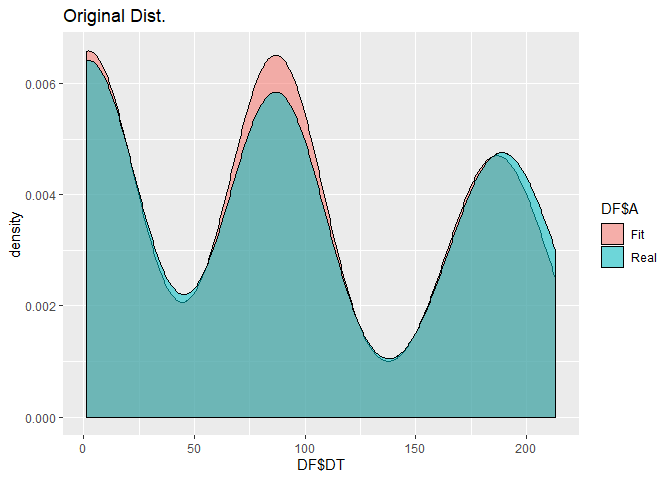
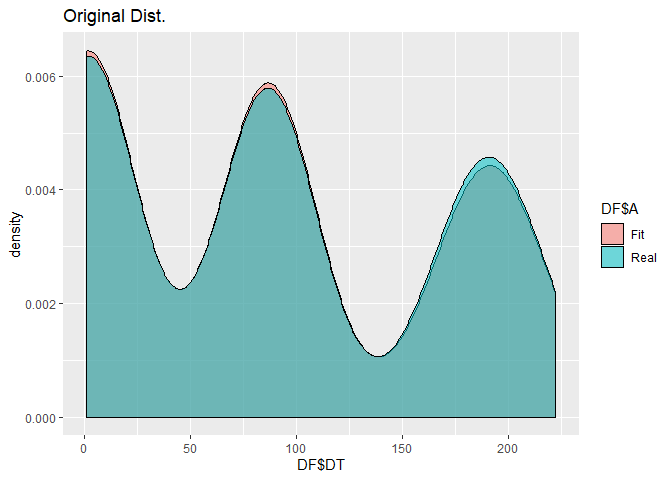
More explicit example

diff --git a/README.md b/README.md
@@ -17,7 +17,7 @@ install.packages("FitUltD")
 Example
 -------
 
-This is a basic example which shows you how to fit a multimodal random variable:
+This is a basic example which shows you how to fit a multimodal random variable choosing your own distributions:
 
 ``` r
 library(FitUltD)
@@ -25,39 +25,31 @@ library(FitUltD)
 #> Package 'mclust' version 5.4.5
 #> Type 'citation("mclust")' for citing this R package in publications.
 #Random Variable
+set.seed(3110)
+
 RV <- c(rnorm(73,189,12), rweibull(82,401,87), rgamma(90,40,19))
-set.seed(311093)
+
+Nombres <- c("norm","weibull","gamma","exp","cauchy")
+
 FIT1 <- FDistUlt(RV, plot = TRUE, subplot = TRUE)
-#> Error in computing default starting values.
-#> Error in computing default starting values.
-#> Error in computing default starting values.
-#> Error in computing default starting values.
-#> Error in computing default starting values.
-#> Error in computing default starting values.
-#> Error in computing default starting values.
-#> Error in computing default starting values.
-#> Error in computing default starting values.
-#> Error in computing default starting values.
-#> Error in computing default starting values.
-#> Error in computing default starting values.
 ```
 
 One of the available options is to show the distribution functions that passed the Anderson Darling and Kolmogorov Smirnov tests, as well as their p-value and the proportion of the total distribution.
 
 ``` r
 FIT1[[3]]
-#>                  Distribution Dist_Prop    Dist    AD_p.v    KS_p.v  estimate1
-#> AD6       lnorm(5.239, 0.051) 0.2979592   lnorm 0.5216458 0.7939035   5.238993
-#> AD8  weibull(370.829, 86.974) 0.3346939 weibull 0.9858631 0.9939599 370.828837
-#> AD10       norm(2.078, 0.312) 0.3673469    norm 0.8530269 0.8549550   2.077990
-#>        estimate2 estimateLL1 estimateLL2 method     PV_S Obs    Lim_inf
-#> AD6   0.05137778           0           1    mge 1.315549  73 168.204371
-#> AD8  86.97421201           0           1    mge 1.979823  82  85.863558
-#> AD10  0.31192627           0           1    mle 1.707982  90   1.390518
-#>         Lim_sup
-#> AD6  213.207681
-#> AD8   87.399901
-#> AD10   2.946422
+#>                           Distribution Dist_Prop  Dist    AD_p.v    KS_p.v
+#> AD7  gamma(252.339, 293.811)*222.168+0 0.2979592 gamma 0.8859093 0.9397635
+#> AD2                 norm(86.894, 0.27) 0.3346939  norm 0.5466113 0.7882263
+#> AD71     gamma(51.093, 73.537)*2.999+0 0.3673469 gamma 0.4460519 0.6231112
+#>      estimate1   estimate2 estimateLL1 estimateLL2 method     PV_S Obs
+#> AD7  252.33913 293.8110186           0   222.16825    mge 1.825673  73
+#> AD2   86.89350   0.2698051           0     1.00000    mge 1.334838  82
+#> AD71  51.09258  73.5366847           0     2.99879    mge 1.069163  90
+#>         Lim_inf   Lim_sup
+#> AD7  162.249575 222.16825
+#> AD2   85.842947  87.33807
+#> AD71   1.483556   2.99879
 ```
 
 By setting `plot` and `subplot` arguments as `TRUE`, is possible to visualizate each distribution which forms the most accurrate model.
